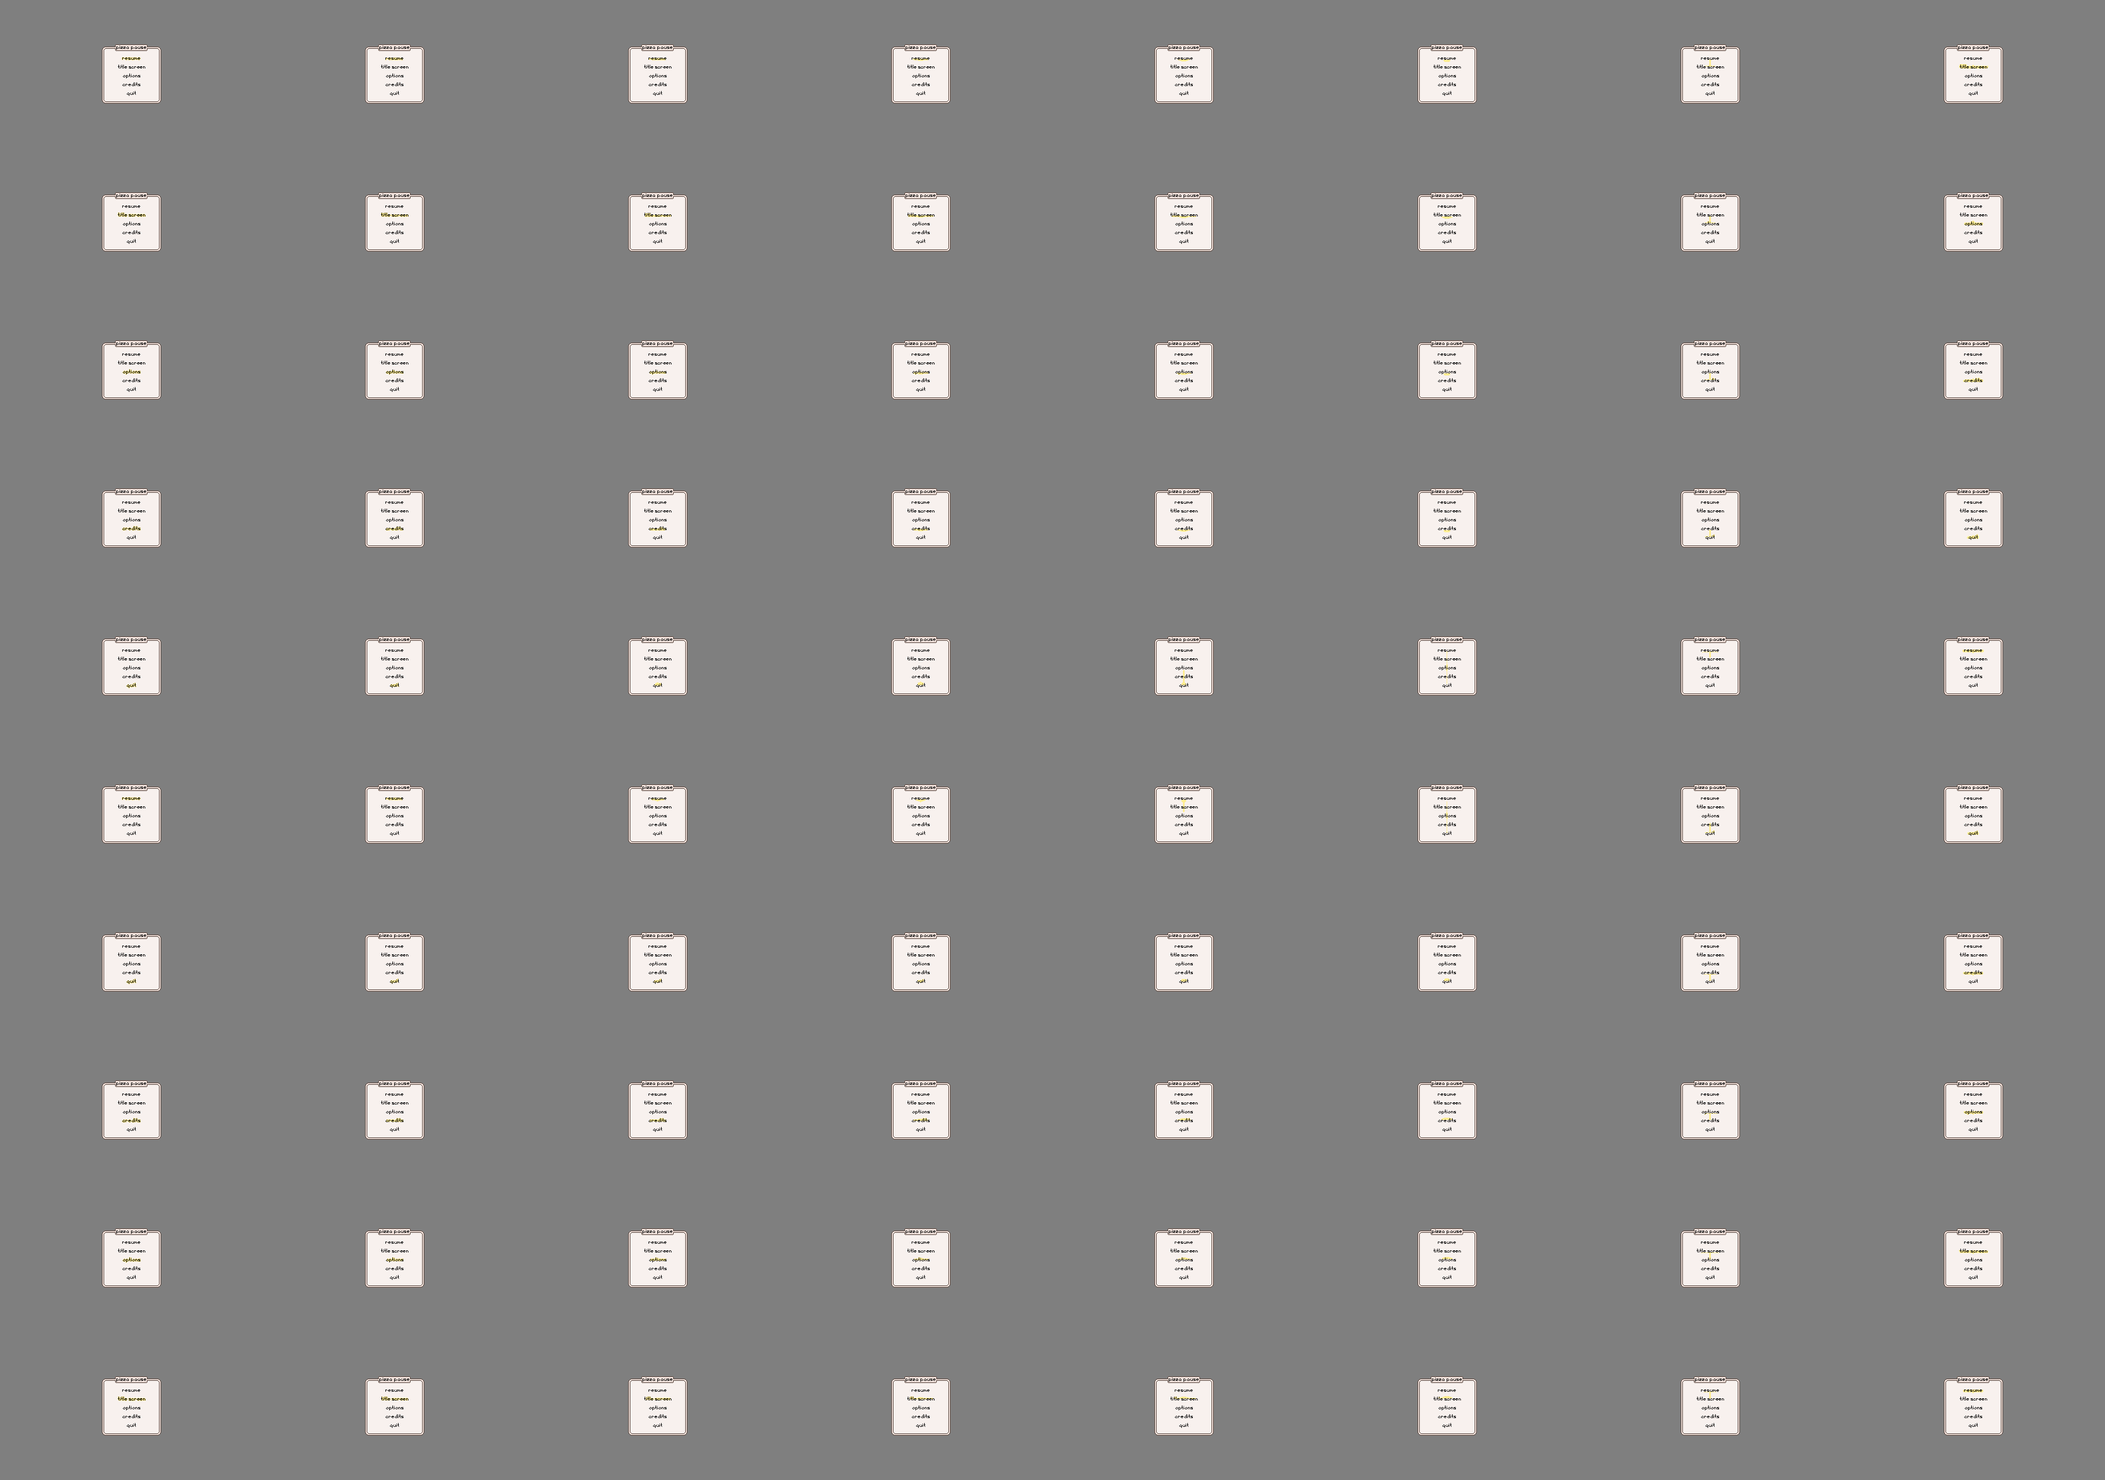
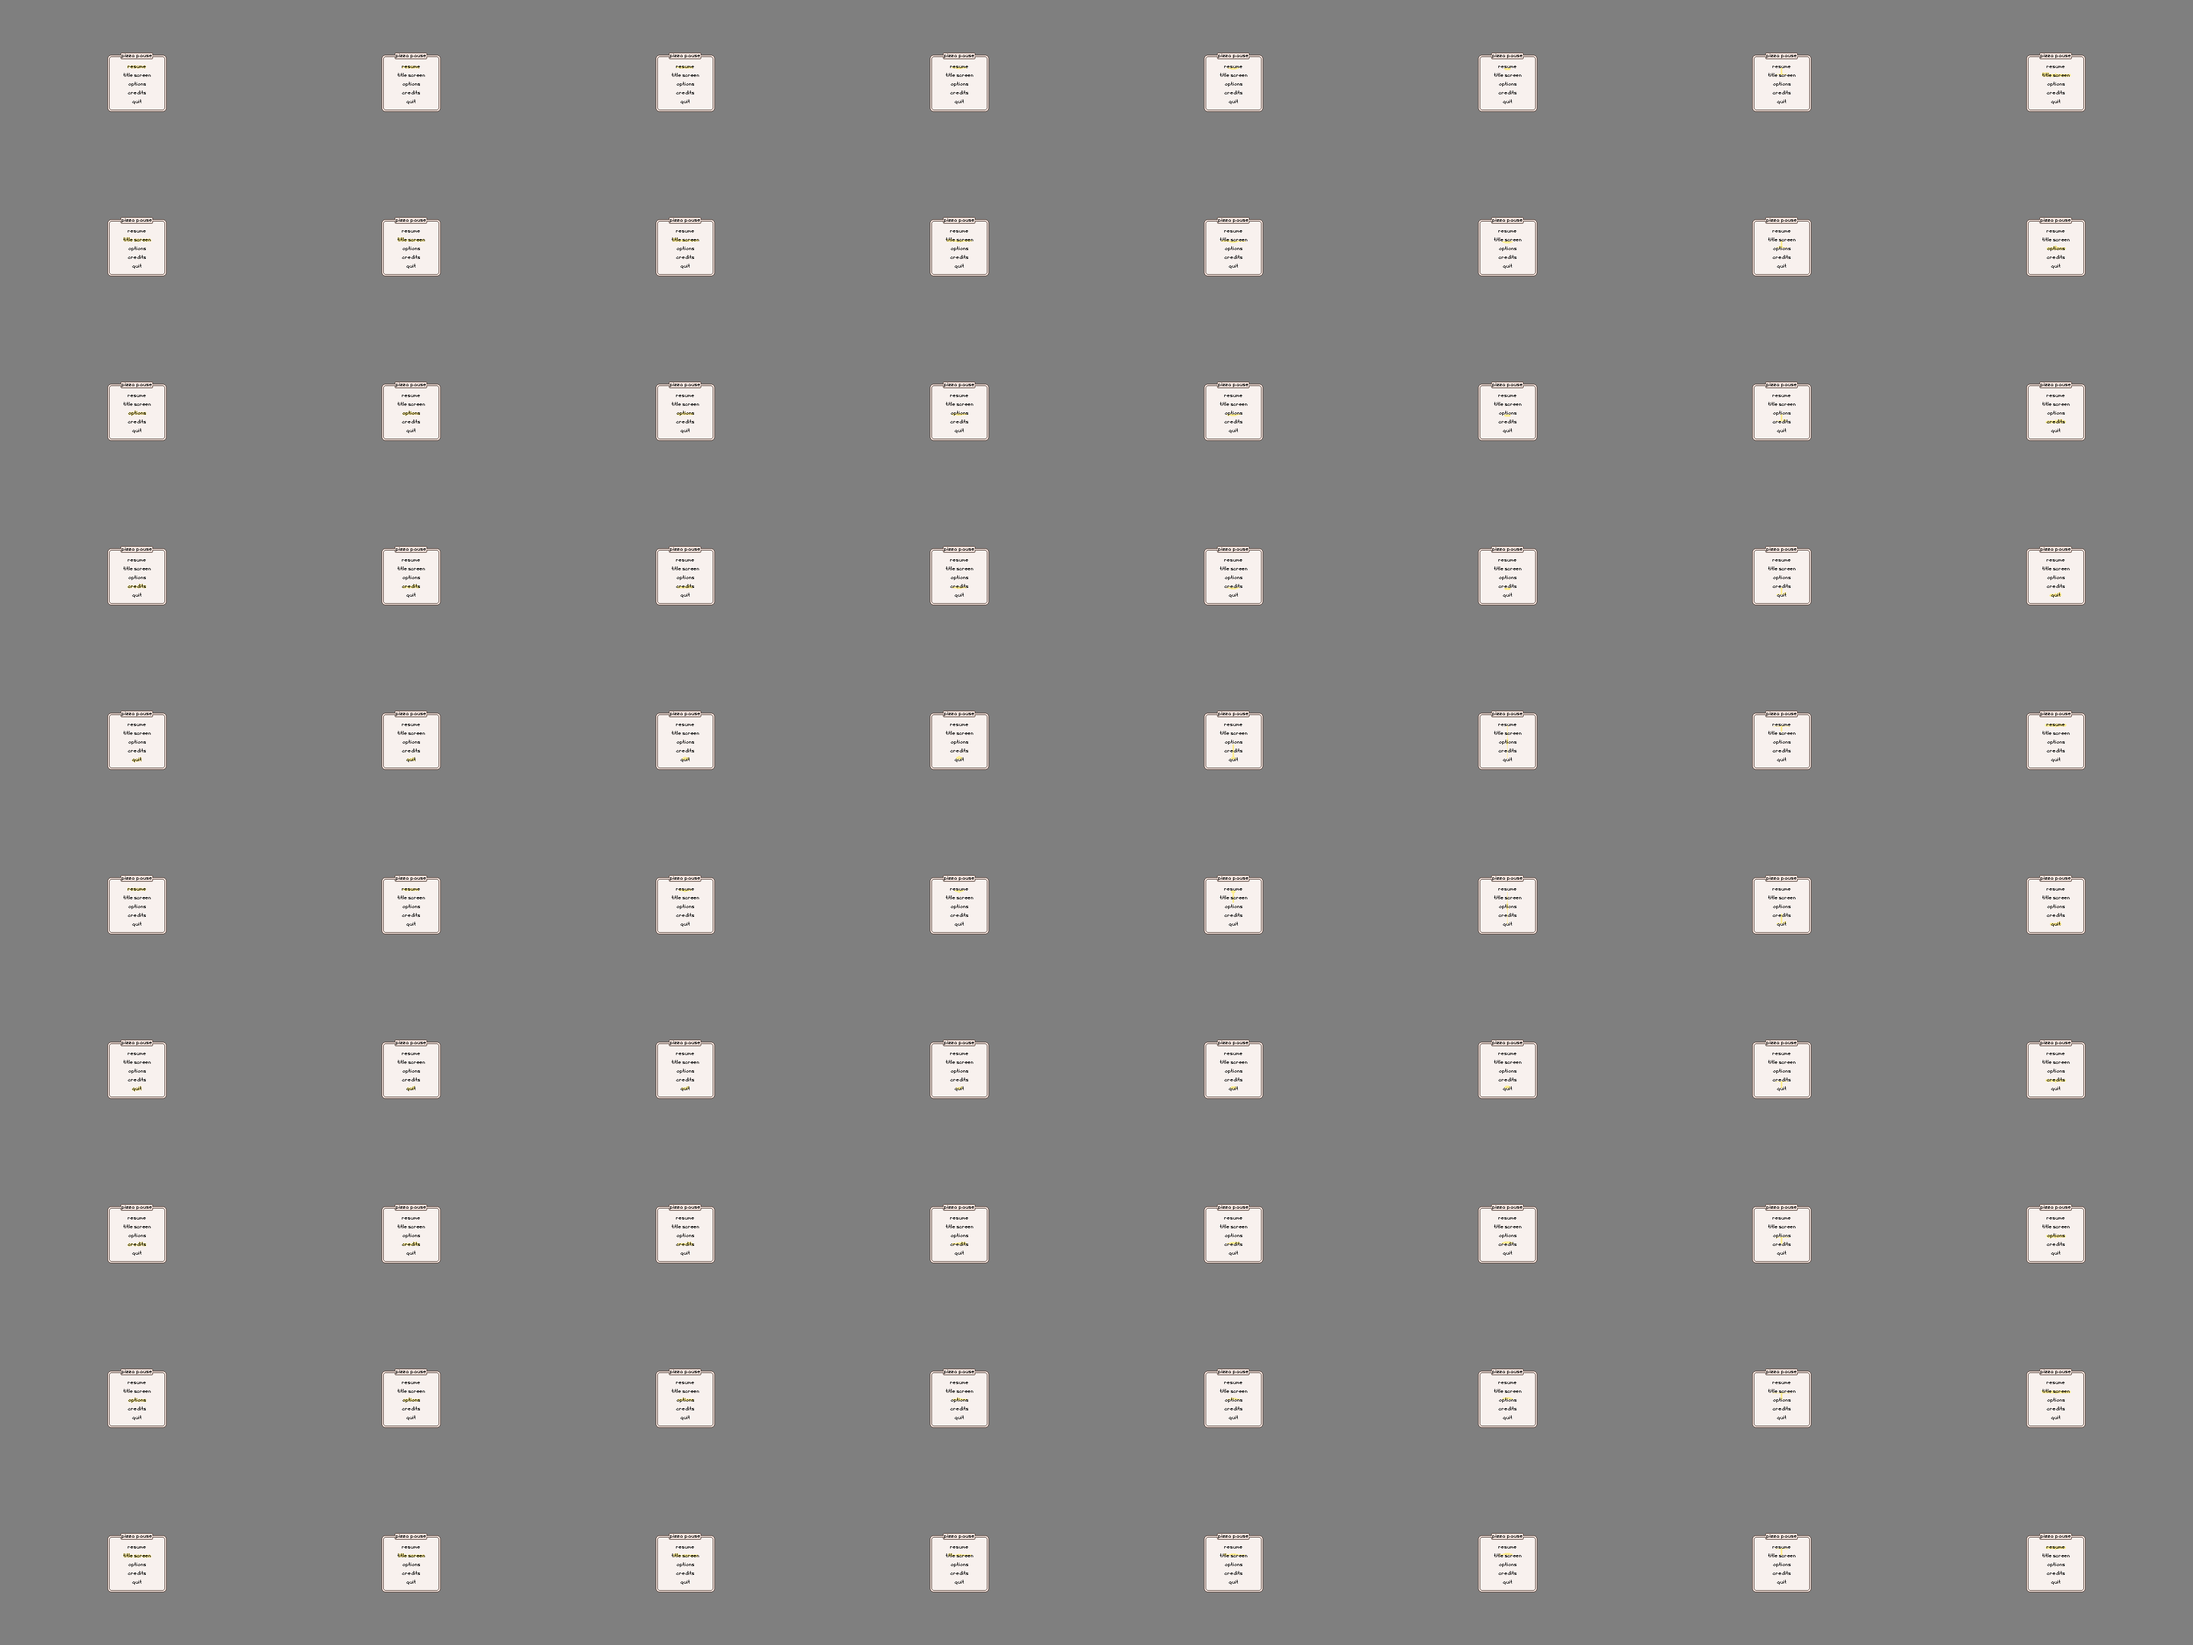
updated pause menu sprites, changed sprite centering function

diff --git a/pizzaPause.cpp b/pizzaPause.cpp
@@ -24,9 +24,9 @@ void pizzaPause::runPause() {
 	if (!run) {
 		if (esc->getLift()) {
 			run = true;
-			menuScreen = new sprite(owner, 480, 270, Vector2(0, 0), 9999999);
+			menuScreen = new sprite(owner, 500, 300, Vector2(-33, 0), 9999999);
 			menuScreen->setTexture("assets/art/Pause_menu.png");
-			menuScreen->setSource(0, 0, 480, 270);
+			menuScreen->setSource(0, 0, 500, 300);
 			menuScreen->setCentered(true);
 		}
 	}
@@ -45,7 +45,7 @@ void pizzaPause::runPause() {
 					selection = 4;
 					menuScreen->setAnimated(
 						true,
-						Vector2(3840, 2700),
+						Vector2(4000, 3000),
 						8, 10,
 						18000,
 						Vector2(0, 5),
@@ -58,7 +58,7 @@ void pizzaPause::runPause() {
 					selection = 1;
 					menuScreen->setAnimated(
 						true,
-						Vector2(3840, 2700),
+						Vector2(4000, 3000),
 						8, 10,
 						18000,
 						Vector2(0, 0),
@@ -73,7 +73,7 @@ void pizzaPause::runPause() {
 					selection = 0;
 					menuScreen->setAnimated(
 						true,
-						Vector2(3840, 2700),
+						Vector2(4000, 3000),
 						8, 10,
 						18000,
 						Vector2(0, 9),
@@ -86,7 +86,7 @@ void pizzaPause::runPause() {
 					selection = 2;
 					menuScreen->setAnimated(
 						true,
-						Vector2(3840, 2700),
+						Vector2(4000, 3000),
 						8, 10,
 						18000,
 						Vector2(0, 1),
@@ -101,7 +101,7 @@ void pizzaPause::runPause() {
 					selection = 1;
 					menuScreen->setAnimated(
 						true,
-						Vector2(3840, 2700),
+						Vector2(4000, 3000),
 						8, 10,
 						18000,
 						Vector2(0, 8),
@@ -114,7 +114,7 @@ void pizzaPause::runPause() {
 					selection = 3;
 					menuScreen->setAnimated(
 						true,
-						Vector2(3840, 2700),
+						Vector2(4000, 3000),
 						8, 10,
 						18000,
 						Vector2(0, 2),
@@ -129,7 +129,7 @@ void pizzaPause::runPause() {
 					selection = 2;
 					menuScreen->setAnimated(
 						true,
-						Vector2(3840, 2700),
+						Vector2(4000, 3000),
 						8, 10,
 						18000,
 						Vector2(0, 7),
@@ -142,7 +142,7 @@ void pizzaPause::runPause() {
 					selection = 4;
 					menuScreen->setAnimated(
 						true,
-						Vector2(3840, 2700),
+						Vector2(4000, 3000),
 						8, 10,
 						18000,
 						Vector2(0, 3),
@@ -157,7 +157,7 @@ void pizzaPause::runPause() {
 					selection = 3;
 					menuScreen->setAnimated(
 						true,
-						Vector2(3840, 2700),
+						Vector2(4000, 3000),
 						8, 10,
 						18000,
 						Vector2(0, 6),
@@ -170,7 +170,7 @@ void pizzaPause::runPause() {
 					selection = 0;
 					menuScreen->setAnimated(
 						true,
-						Vector2(3840, 2700),
+						Vector2(4000, 3000),
 						8, 10,
 						18000,
 						Vector2(0, 4),

diff --git a/sprite.cpp b/sprite.cpp
@@ -89,8 +89,8 @@ void sprite::draw() {
 			drawRect->y = static_cast<int>(owner->getPosition().y - (height / 2) - (offset.y * owner->getGame()->getScale()));
 		}
 		else if (centered) {
-			drawRect->x = static_cast<int>(-23 * owner->getGame()->getScale());
-			drawRect->y = 0;
+			drawRect->x = 0 + static_cast<int>((offset.x * owner->getGame()->getScale()));
+			drawRect->y = 0 - static_cast<int>((offset.y * owner->getGame()->getScale()));
 		}
 		else {
 			drawRect->x = static_cast<int>(owner->getPosition().x - (width / 2) - owner->getGame()->getCamera()->x + (offset.x * owner->getGame()->getScale()));
